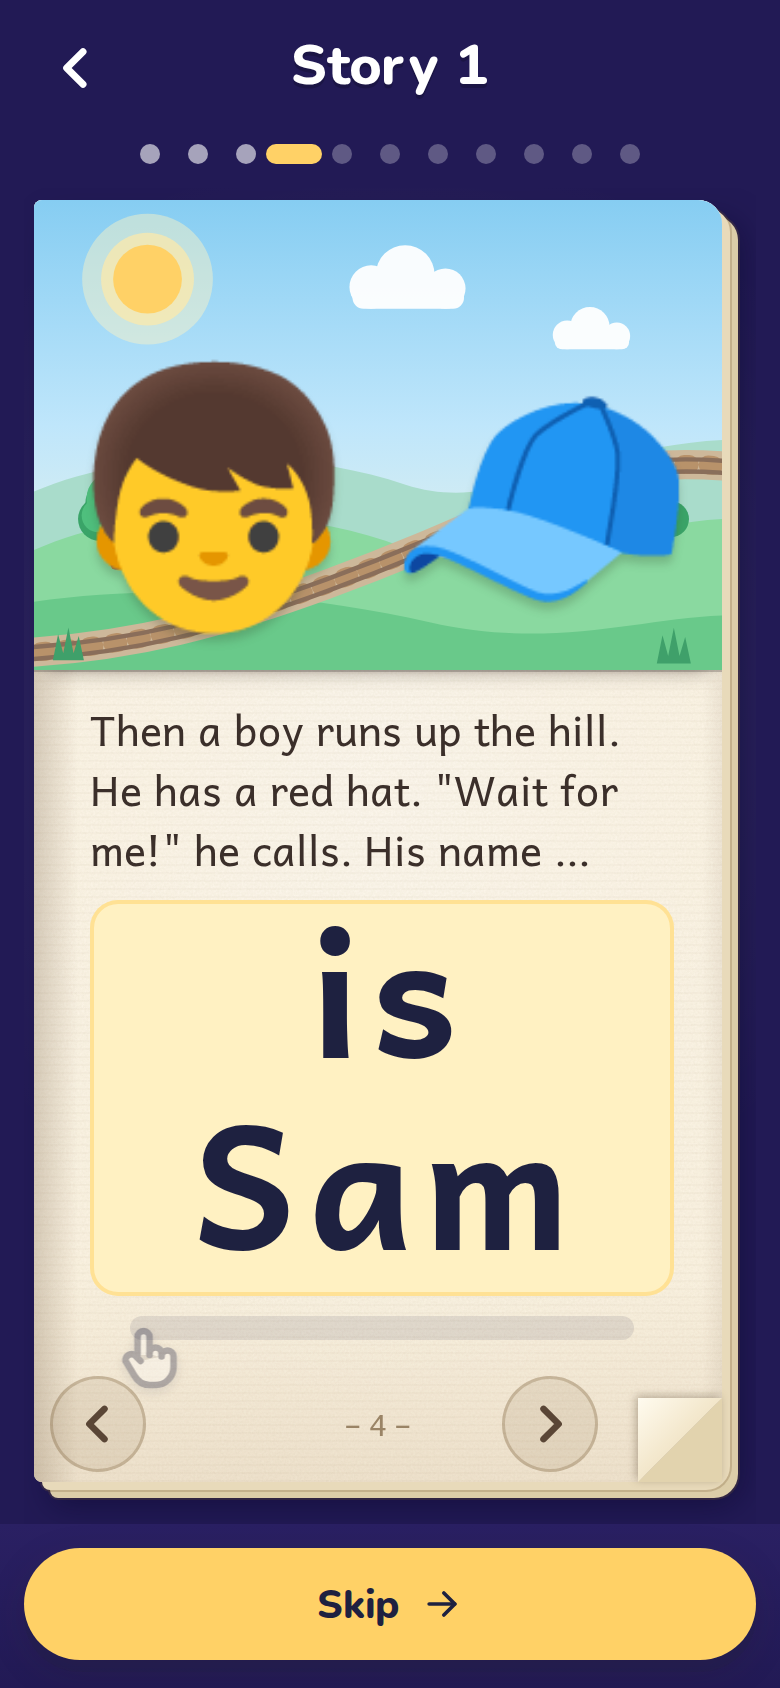
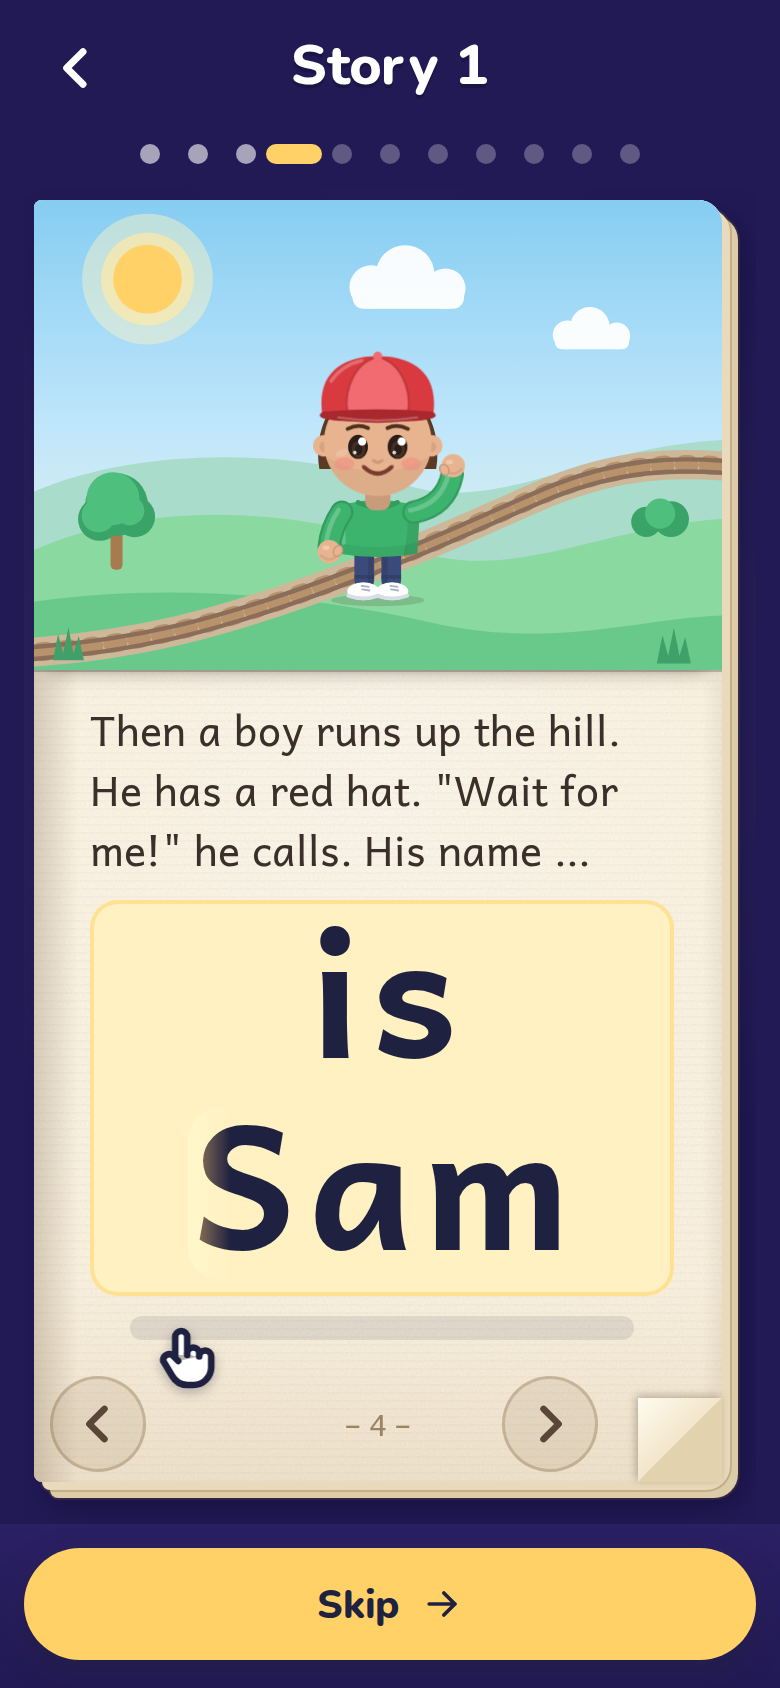
Version 1.9.32: storybook as real picture-book pages; Sam drawn with a red cap as the story says
Claude-Session: https://claude.ai/code/session_016cKvBQBv9Ceas6c2YjYcfF

Changed region(s): [[0.0923, 0.1848, 0.8923, 0.4005], [0.1538, 0.7701, 0.2769, 0.8318], [0.2462, 0.6777, 0.3077, 0.7393]]

diff --git a/js/art/kid.js b/js/art/kid.js
@@ -20,8 +20,8 @@ const ring = (n, a0, a1, rad, cx = 60, cy = 58) => Array.from({ length: n }, (_,
 
 // The hats (front layer): short hair in the hair colour shows around the ears behind the head, and the brim stops above
 // the brows so the eyes and brows stay clear.
-function hatParts(style, col) {
-  const t = HATS[style];
+function hatParts(style, col, hat) {
+  const t = { ...HATS[style], ...(hat || {}) };
   const back = [h('path', { d: 'M27.5 73 C23.5 50 36 25 60 25 C84 25 96.5 50 92.5 73 Z', fill: col })];
   if (style === 'cowboy') {
     return { back, front: [h('g', { transform: 'translate(0 -3)' },
@@ -42,8 +42,8 @@ function hatParts(style, col) {
 }
 
 // Hair: { back, front } as arrays of elements, from the colour and its shade.
-function hairParts(style, col, shade, skinC) {
-  if (HATS[style]) return hatParts(style, col);
+function hairParts(style, col, shade, skinC, hat) {
+  if (HATS[style]) return hatParts(style, col, hat);
   const blob = (cx, cy, r, fill = col) => fill === col
     ? h('g', {}, h('circle', { cx: cx.toFixed(1), cy: cy.toFixed(1), r, fill }), h('path', { d: `M${(cx - r * 0.55).toFixed(1)} ${(cy - r * 0.2).toFixed(1)} Q${(cx - r * 0.3).toFixed(1)} ${(cy - r * 0.62).toFixed(1)} ${(cx + r * 0.2).toFixed(1)} ${(cy - r * 0.62).toFixed(1)}`, fill: 'none', stroke: '#fff', 'stroke-width': 1.1, 'stroke-linecap': 'round', opacity: 0.12 }))
     : h('circle', { cx: cx.toFixed(1), cy: cy.toFixed(1), r, fill });
@@ -145,12 +145,12 @@ function outfitParts(o, c, cd) {
   return { back, front };
 }
 
-export function kidSvg({ skin = 2, hair = 'short', hairColor = 1, outfit = 'star', pose = 'idle', still = false, label = null } = {}) {
+export function kidSvg({ skin = 2, hair = 'short', hairColor = 1, outfit = 'star', pose = 'idle', still = false, label = null, hat = null } = {}) { // hat: optional colours over a hat's own (a storybook character's red cap)
   if (!ARMS[pose]) pose = 'idle';
   const skinC = SKINS[skin] || SKINS[2], skinD = mixHex(skinC, '#000000', 0.14);
   const hairC = HAIR_COLORS[hairColor] || HAIR_COLORS[1], hairD = mixHex(hairC, '#000000', 0.22);
   const o = outfitOf(outfit), topC = o.top, teeD = mixHex(topC, '#000000', 0.14), legC = o.legs || skinC;
-  const hp = hairParts(HAIR_STYLES.includes(hair) ? hair : 'short', hairC, hairD, skinC);
+  const hp = hairParts(HAIR_STYLES.includes(hair) ? hair : 'short', hairC, hairD, skinC, hat);
   const wear = outfitParts(o, topC, teeD);
   const arm = ([d, hx, hy], side) => h('g', { class: `kid-arm kid-arm-${side}` },
     h('path', { d, fill: 'none', stroke: teeD, 'stroke-width': 13, 'stroke-linecap': 'round' }),

diff --git a/js/screens/book.js b/js/screens/book.js
@@ -118,6 +118,7 @@ export function bookBuild({ checkpoint, book, store, refresh, setProgress, setDo
       parts.pip = h('span', { class: 'book-part book-pip' }, pipSvg({ pose: a.pip, still: false }));
     }
     if (a.friend) parts.friend = h('span', { class: 'book-part book-friend' }, kidSvg({ ...store.character(), pose: page.tap && page.tap.on === 'friend' ? 'idle' : 'wave', still: false, label: store.character().name || FRIEND }));
+    else if (a.kid) parts.friend = h('span', { class: 'book-part book-friend' }, kidSvg({ ...a.kid, pose: 'wave', still: false })); // a story character drawn like the child's figure (Sam)
     if (a.emoji) parts.emoji = h('span', { class: 'book-part book-emojis', role: 'img', 'aria-hidden': 'true' }, a.emoji.map((e) => h('span', { class: 'book-emoji' }, e)));
     const order = ['pip', 'train', 'friend', 'emoji'].filter((k) => parts[k]);
     for (const k of order) {

diff --git a/sw.js b/sw.js
@@ -1,6 +1,6 @@
 // Service worker: precache the app shell and everything the three lessons use, then serve cache-first.
 // Bump CACHE_VERSION whenever any file below changes, or installed copies keep the old files.
-const CACHE_VERSION = 'reading-v1.9.31';
+const CACHE_VERSION = 'reading-v1.9.32';
 
 const APP_FILES = [
   './', 'index.html', 'manifest.webmanifest',

diff --git a/js/version.js b/js/version.js
@@ -1,2 +1,2 @@
 // Bump both this and CACHE_VERSION in sw.js whenever content or code changes.
-export const APP_VERSION = '1.9.31';
+export const APP_VERSION = '1.9.32';

diff --git a/README.md b/README.md
@@ -429,4 +429,5 @@ The design is in `docs/TRAIN-WORLD.md`; screenshots at four phone sizes are in `
 - v1.9.29: accounts on with Google: `js/config.js` now holds the live Supabase project URL and its publishable key (public by design; the secret key is never in the repo) and `OAUTH_PROVIDERS = ['google']`, so the sign-in gate is on in production. Sign-in screen: a white "Continue with Google" button with the four-colour G (inline SVG, 52 px) above the email form and an "or use your email" divider, only for providers listed. Flow: PKCE (`signInWithProvider` in js/account.js; the verifier is kept through `pkceStore` in js/store.js, the storage seam), redirect to Supabase `/auth/v1/authorize`, return with `?code=` which boot trades at `/auth/v1/token?grant_type=pkce` before the gate (then the usual sync rules; `code` is removed from the address); an `error` in the query or hash shows "Google sign-in didn't finish. Please try again."; tokens in the hash without `type=recovery` are accepted as a fallback (user read from `/auth/v1/user`). Grownups > Account shows "Signed in with Google" for those accounts. `Authorization` is sent only with a user token (the new publishable key is not a JWT; `apikey` carries it). Test environment: accounts are OFF on localhost unless `window.__config` is set or the address has `?accounts=1`, so the other suites run without the gate. Apple sign-in waits for the Apple Developer Program (needed before an iOS submission). test/account.mjs fakes authorize and the pkce exchange; test/platform.mjs checks the Supabase origin is the only remote origin (and that Google is a navigation). Docs: docs/BACKEND.md.
 - Welcome email (server-side, no version change): `supabase/welcome-email.sql` (owner pastes it in the Supabase SQL Editor; idempotent). A security-definer function `public.send_welcome_email(uid)` (empty search_path, never raises) posts to Resend's API with `net.http_post` (pg_net) using the key in Supabase Vault (`resend_api_key`, created once by the owner; never in the repo) and records `public.welcome_sent` (RLS on, no policies) so each user is welcomed once. Triggers on `auth.users`: AFTER INSERT when `email_confirmed_at` is set (Google) and AFTER UPDATE OF `email_confirmed_at` null to set (email confirm). Content (warm, neutral "your child", three tips from CURRICULUM section 13/principles, Start reading button, reply-to-ask line) is in the SQL and mirrored in `docs/emails/welcome.html`. Checked offline against a scratch Postgres 16 with stub `auth.users`, `vault.decrypted_secrets` and `net.http_post`; not tested against real Supabase or Resend. Steps: docs/BACKEND.md "Welcome email", docs/OWNER-TODO.md.
 - Lesson rebuild phase A (no version change; full before and after lists in `docs/LESSON-REBUILD.md`; owner decisions of 2026-10-08, sound order unchanged). (1) One frame for all 13 lessons, built by `tasksFor` in `js/lessons.js`: Letter Review (lesson 1: New Sound first), New Sound, Watch My Mouth, then `lesson.middle` (2 to 4 of Saying Sounds, Track Tracing, Letter Hunt, Green Light, Wagon Parade, Station Board; the patterns are `MIDDLES` in `js/games-data.js`, written by `tools/gen-lessons.mjs`; every middle has Saying Sounds and Track Tracing and no two neighbours match), then Practicing Words as the short closing review, then Ticket Check, always last. `gameSlot` and `CYCLE` are replaced by `middleFor`; `lesson.games` is now the tap games inside the middle. (2) New task `mouth` ("Watch My Mouth", `js/screens/tasks/mouth.js`, art `js/art/grownup.js`): one grown-up illustration with a finger at the side of the mouth, the owner's grown-up text, the sound as a recording or "Say: mmm" (the phone says only "Watch your grown-up's mouth."), and a "How to make this sound" panel from `sounds[k].mouth` (written by the generator's `MOUTH` table from the CURRICULUM.md pronunciation notes). (3) Word Cars is removed from the lessons (the white paper ties sound awareness to letters; Stage 1 keeps its oral blending): the task, `sayingWords` data and screen are gone. (4) Every outside YouTube link is gone: the Sound Story task, the Alphabet song row, Grownups > Links, `playlistUrl` and `alphabetSongUrl`, and the number gate `js/components/grown-gate.js` (its CSS stays: the rest card reuses it); the app opens no outside address, and the platform and lesson-rebuild tests fail if one returns. (5) Grown-up lines in the lessons and the f and heart prototypes were rewritten: "I do, we do, you do" for new sounds and skills, "child tries first, then together, then say it after me" for practice and review (`READ_HELP` unchanged); gists stay within 28 characters. (6) The f story's uneven, funky text: capitals and marks were drawn in Nunito 800 beside thin stroke letters; `wordSvg(..., { font: true })` now draws a whole sentence in Andika bold, used by the f story, the shared reading panel and the book reader. Retrieval first in Letter Review: the sound card and recording stay hidden until the grown-up taps "Show the sound" (or Again); New Sound still shows it at once. Saved progress: a one-time migration (`settings.layoutA`, `js/store.js`) clears the task ticks of lessons that are not finished; finished lessons are untouched. New suite `test/lesson-rebuild.mjs` (in `npm test`).
+- v1.9.32: storybook as real picture-book pages (roadmap item 5): in portrait one cream paper page (CSS grain, pages stacked behind) with a full-bleed scene across the top (`js/art/scenes.js`, a `scene` field per page in `data/books/*.json`; story text unchanged), the story text below in the story font, a page number, a folded corner that turns the page and quiet round Previous/Next arrows in the bottom row (never over the picture, the slider or the text); landscape keeps the open spread with the same paper. The cover is a cloth hardback with Pip and the child's own figure; the review page has a scene banner. Page 4 now draws Sam with the figure art in a red cap, as the text says ("He has a red hat"; `kidSvg` takes optional `hat` colours, book art `kid`), instead of a blue cap emoji. The book test seeds "Lily" with a matching look. Test fixes for the lesson rebuild: smoke runs Letter Hunt only in lessons that have it, sfx opens Saying Sounds at its new place. Screenshots in `docs/screenshots/storybook/`.
 - v1.9.31: lesson tips, auto-return and story stops: (1) The "Did you know?" card (`tipCard`, house style) now shows over the lesson overview (`/lesson/N`) each time a lesson is opened from the Home, rotating through `data/tips.json` with `nextTip`/`tipsSeen`; coming back to the overview from a task does not show another (`ctx.lessonTipFor` is reset by `homeScreen`), and the card lives inside the overview so it never appears on a task screen. It stays until its close X is tapped (no timeout; a tap outside or on the text does nothing). The X moved to the bottom right of every tip card (48 px, a soft grey disc in the bottom row of the card); the lesson card has no "Got it" (`tipCard({ gotIt: false, className: 'lesson-tip' })`), the Home preview and the world loading card keep theirs. The card sits above the big Start button (`.tip-card.lesson-tip`). `window.__noTips = true` switches it off; `test/lib.mjs` `newPage` sets it by default so the other suites' taps are never covered, and `test/lesson-tips.mjs` turns it back on. (2) New tip 20 ("A fun way to speed up your child's learning is to find letters "out in the wild"..."), without the "Did you know?" prefix (the card title says it; `check-content` forbids the prefix and now expects 20 tips). Tips are never spoken (no code path sends `tips.json` to the speech engine), so the "mmm" in it, like the one in tip 7, is only read by the grown-up. (3) After "Yes, go on" on a lesson's finish screen (the second tap, as before) the result is saved, the buttons switch off, and after `LESSON_RETURN_MS` (1.2 s of the confetti and cheering) the app goes to `#/home` by itself, where the existing arrival ride (`finishedStop`, `trainDone`, `trainAt`) plays from the finished station to the next; under reduced motion it returns the same way and the train and figure are simply at the next stop. "Not yet, practice again" is unchanged; a checkpoint's finish screen (story, ride, crate) still goes Home at once. (4) ORDER item 4: `checkpointStopIndex` (`js/sequence.js`) picks, among the checkpoints standing right before the current lesson, the first Story or Smooth Ride not yet done and unlocked (crates never hold the train). In the 3D Home (`stopsOf`) and the 2D path (`mapScreen`) that checkpoint becomes the current stop (its stop is highlighted and holds the bubble "Tap to start", the figure rides there and stands beside it) and the lesson after it shows as an ordinary open stop; once the checkpoint is done the ride goes on to the next held checkpoint or the lesson. The station building is unchanged. Tests: `test/train.mjs` `autoReturnChecks` (and its old arrival checks now aim at the held Smooth Ride, `iN`), `test/lesson-tips.mjs`. The heat checks in train.mjs use lesson 3's Letter Hunt and Practicing Words (the old task numbers no longer matched since lesson rebuild phase A). Screenshots in `docs/screenshots/tips-ride/`.

diff --git a/docs/NEXT.md b/docs/NEXT.md
@@ -132,7 +132,7 @@ Owner: implement all of these without asking, then report the decisions made. Co
   no way back to world 1. Tapping the tunnel/mountain at the start of a world goes back to the world before it (its
   finished stations can be replayed), with the tunnel there leading forward again; Grownups also lists the finished
   worlds with a "Go to this world" button. Progress never changes by visiting.
-- [ ] **5. Storybook as real pages (owner, 2026-10-08):** the owner expected the storybook to look like an immersive
+- [x] **5. (LIVE in 1.9.32) Storybook as real pages (owner, 2026-10-08):** the owner expected the storybook to look like an immersive
   real book page; check the current book screen against that and make it feel like a picture book page.
 - [ ] **6. DECIDED (owner, 2026-10-10): option 1, Smooth Ride becomes "Read It Again"**, a repeated-reading station: the grown-up
   reads a tiny decodable story (2–4 short sentences, taught letters only) once, the child reads it back, and the train pulls
